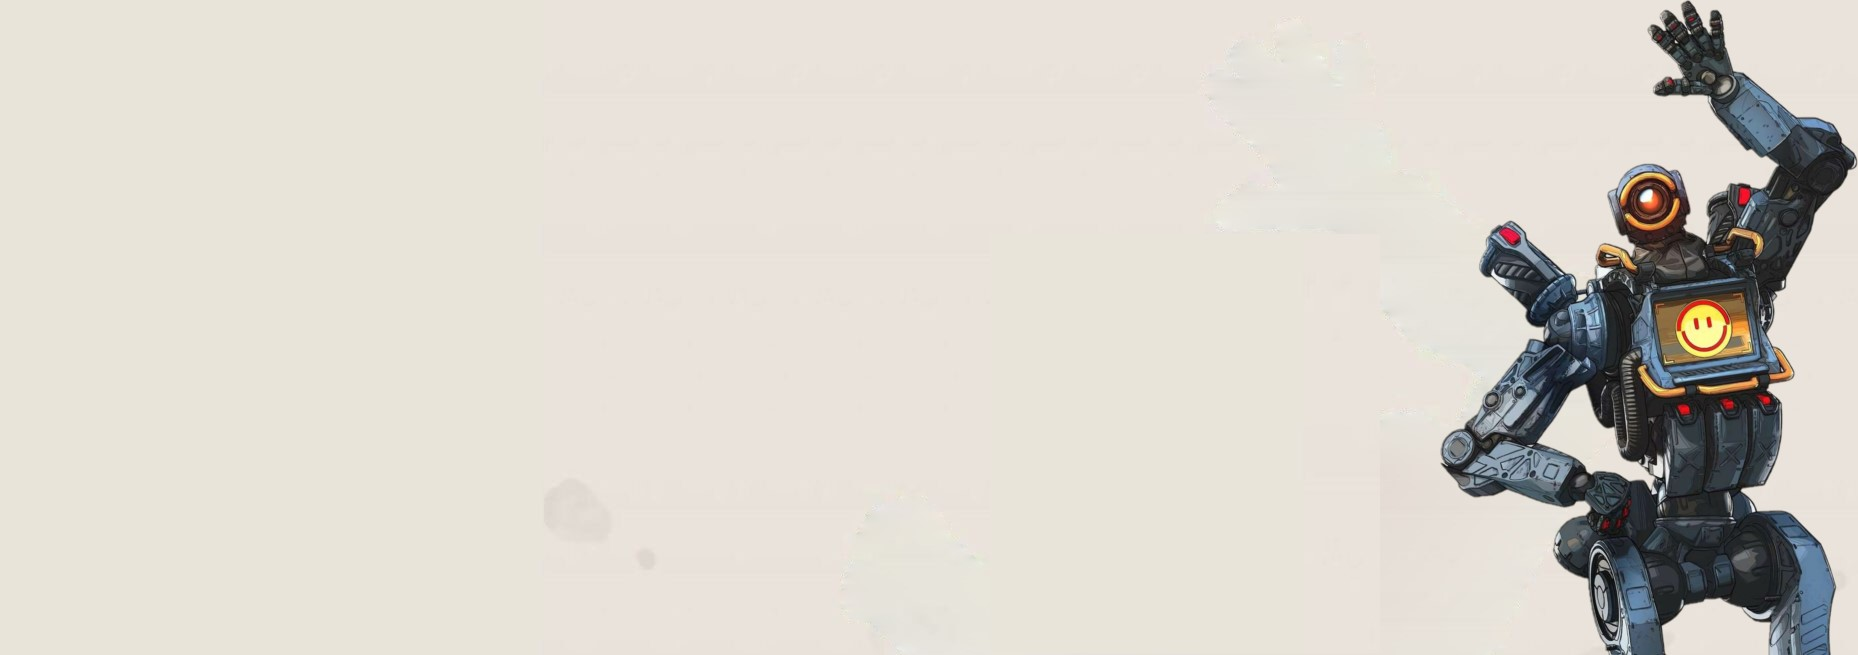
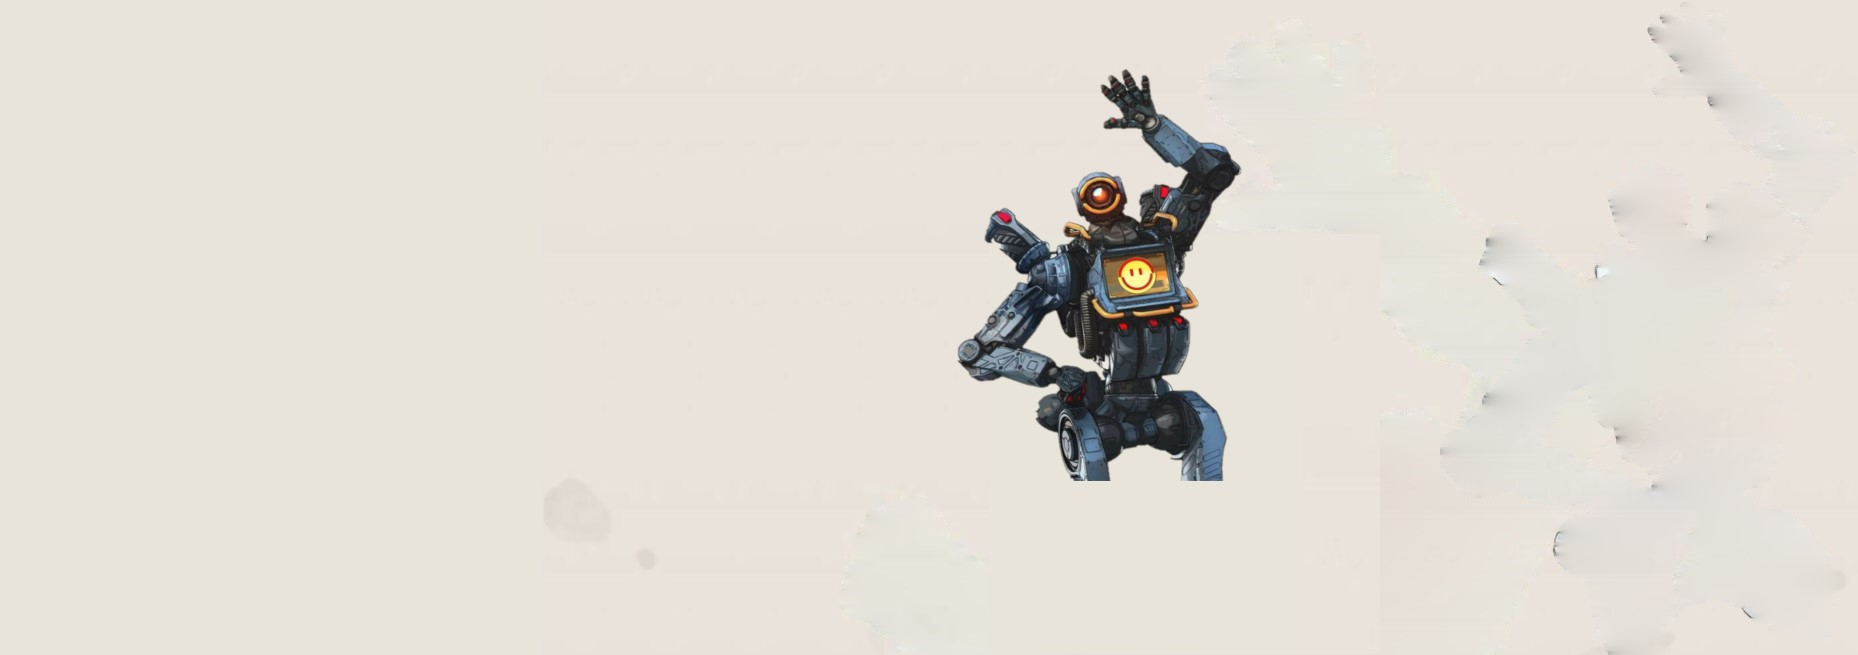
Add second section - "players" with animation and fixation in link

Changed region(s): [[0.7492, 0.0, 1.0, 1.0], [0.4995, 0.0916, 0.6868, 0.7328]]

diff --git a/2.css b/2.css
@@ -4,6 +4,22 @@
     box-sizing: border-box;
 }
 
+.bt {
+    border: 1px solid red;
+}
+
+body {
+    font-family: 'Montserrat', sans-serif;
+}
+
+header {
+    height: 65px;
+    background: rgb(48, 43, 35);
+    z-index: 10;
+    position: sticky;
+    top: 0;
+}
+
 h1 {
     font-size: 65px;
     font-weight: 700;
@@ -14,17 +30,51 @@ h1 {
     margin-bottom: 30px;
 }
 
-body {
-    font-family: 'Montserrat', sans-serif;
+h2 {
+    padding-left: 40px;
+    padding-bottom: 40px;
+    font-size: 40px;
+    font-weight: 600;
+    line-height: 40px;
+    color: rgb(90, 7, 7);
+    text-align: center;
+    text-transform: uppercase;
 }
 
-.bt {
-    border: 1px solid red;
+h2>span {
+    position: relative;
 }
 
-header {
-    height: 65px;
-    background: rgb(48, 43, 35);
+h2>span::after {
+    content: "";
+    height: 2px;
+    width: 62%;
+    background: rgb(90, 7, 7);
+    top: 110%;
+    left: 39%;
+    position: absolute;
+    margin-left: -21%;
+}
+
+h3 {
+    font-size: 36px;
+    font-weight: 600;
+    margin-block-start: 1em;
+    margin-block-end: 1em;
+    margin-inline-start: 0px;
+    margin-inline-end: 0px;
+}
+
+.players_item>h3 {
+    margin-top: 23px;
+    margin-bottom: 10px;
+    color: rgba(82, 16, 16, 0.76);
+    text-align: center;
+    text-transform: capitalize;
+}
+
+.players {
+    padding: 60px;
 }
 
 header .main-wrapper>img {
@@ -67,7 +117,7 @@ header .main-wrapper {
     content: "";
     width: 10%;
     height: 3px;
-    background: rgb(233, 18, 18);
+    background: rgb(124, 56, 11);
     position: absolute;
     left: 0;
     top: 25px;
@@ -85,7 +135,7 @@ header .main-wrapper {
 
 .main-board {
     height: 500px;
-    background: url(Asets/IMG/MainBackground.jpg);
+    background: url(Asets/IMG/MainBackground.jpg) fixed;
     background-size: cover;
     position: relative;
 }
@@ -156,7 +206,7 @@ a.main-board_button-link {
     width: 165px;
     height: 50px;
     border: 2px solid rgba(172, 33, 33, 0.76);
-    border-radius: 0 5px 0 5px;
+    border-radius: 0 8px 0 8px;
     align-items: center;
     text-decoration: none;
     color: rgba(172, 33, 33, 0.76);
@@ -193,4 +243,88 @@ a.main-board_button-link {
 
 .main-board_button-link:hover>div>.main-board_button-link-bold {
     color: rgb(61, 43, 29);
+}
+
+.players {
+    background-color: rgba(211, 202, 190, 0.726);
+    background-size: cover;
+}
+
+.players_block-item {
+    display: flex;
+    justify-content: space-between;
+    margin-top: 30px;
+    margin-left: -15px;
+}
+
+.players_item {
+    padding: 1px;
+    flex: 0 0 35%;
+    text-align: center;
+    transition-duration: 0.6s;
+    border-radius: 8px;
+    height: 450px;
+}
+
+.box-icon {
+    border: 3px solid rgb(31, 6, 6);
+    border-radius: 50%;
+    height: 140px;
+    text-align: center;
+    width: 150px;
+    margin: 0 auto;
+    transition-duration: 0.5s;
+    margin-top: 10px;
+}
+
+.box-icon>i {
+    color: rgb(31, 6, 6);
+    font-size: 80px;
+    line-height: 135px;
+    transition-duration: 0.9s;
+}
+
+.players_item>p {
+    font-size: 16px;
+    font-weight: 500;
+    font-family: 'Open Sans', sans-serif;
+    line-height: 30px;
+    margin-bottom: 20px;
+    color: #070606;
+    padding-left: 10px;
+    padding-right: 10px;
+}
+
+.players_item>a {
+    display: inline-block;
+    width: 120px;
+    height: 45px;
+    line-height: 40px;
+    color: rgb(124, 56, 11);
+    font-size: 18px;
+    font-weight: 500;
+    border-radius: 0 8px 0 8px;
+    border: 2px solid #161C35;
+    text-decoration: none;
+    transition-duration: 0.5s;
+    margin-top: 10%;
+    margin-bottom: 5px;
+}
+
+.players_item:hover {
+    box-shadow: 0px 1px 19px 3px #b98427
+}
+
+.players_item:hover>.box-icon {
+    background-color: rgb(255, 251, 251);
+    border-color: rgb(150, 91, 36);
+}
+
+.players_item:hover>.box-icon>i {
+    color: rgb(150, 91, 36);
+}
+
+.players_item>a:hover {
+    background-color: rgb(150, 91, 36);
+    color: rgb(255, 251, 251);
 }

diff --git a/1.html b/1.html
@@ -17,7 +17,7 @@
             <nav class="main-menu">
                 <ul>
                     <li><a href="#">Home</a></li>
-                    <li><a href="#">Players</a></li>
+                    <li><a href="#players-link">Players</a></li>
                     <li><a href="#">Tournaments Videos</a></li>
                     <li><a href="#">Soundtrack</a></li>
                     <li><a href="#">Support</a></li>
@@ -57,8 +57,45 @@
                 <img src="Asets/IMG/MainIcon.png">
             </div>
         </section>
+        <section class="players" id="players-link">
+            <div class="main-wrapper">
+                <h2><span>Players</span></h2>
+                <div class="players_block-item">
+                    <div class="players_item">
+                        <div class="box-icon">
+                            <i class="fas fa-align-justify"></i>
+                        </div>
+                        <h3>Top players</h3>
+                        <p>Lorem ipsum dolor sit amet, consectetur adipiscing elit. In eu volutpat sem. Donec ut
+                            bibendum metus. Pellentesque at sodales augue.
+                        </p>
+                        <a href="#">Read more</a>
+                    </div>
+                    <div class="players_item">
+                        <div class="box-icon">
+                            <i class="fas fa-heart"></i>
+                        </div>
+                        <h3>With heart</h3>
+                        <p>Lorem ipsum dolor sit amet, consectetur adipiscing elit. In eu volutpat sem. Donec ut
+                            bibendum metus. Pellentesque at sodales augue.
+                        </p>
+                        <a href="#">Read more</a>
+                    </div>
+                    <div class="players_item">
+                        <div class="box-icon">
+                            <i class="fas fa-cart-arrow-down"></i>
+                        </div>
+                        <h3>Shop</h3>
+                        <p>Lorem ipsum dolor sit amet, consectetur adipiscing elit. In eu volutpat sem. Donec ut
+                            bibendum metus. Pellentesque at sodales augue.
+                        </p>
+                        <a href="#">Read more</a>
+                    </div>
+                </div>
+            </div>
+        </section>
     </main>
-    
+
 </body>
 
 </html>
